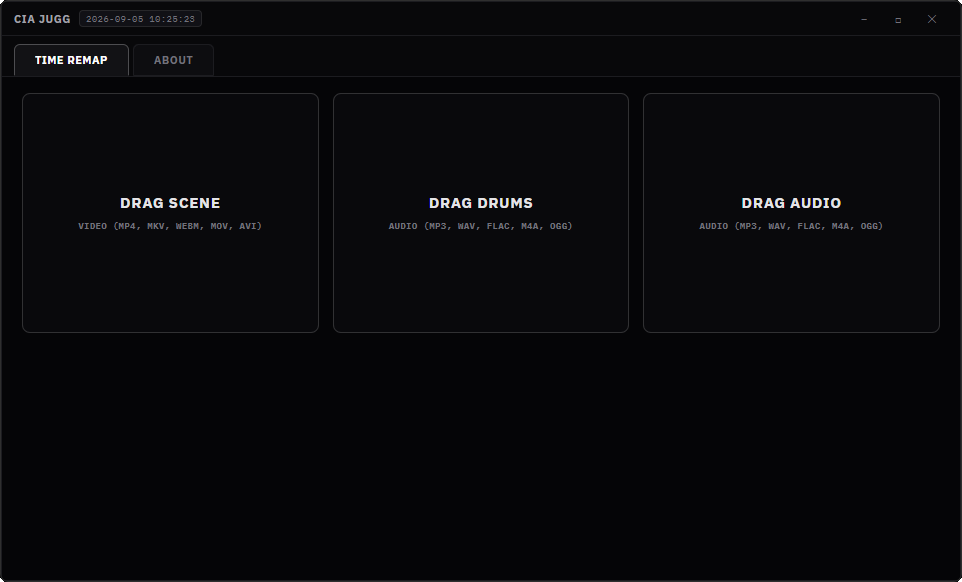
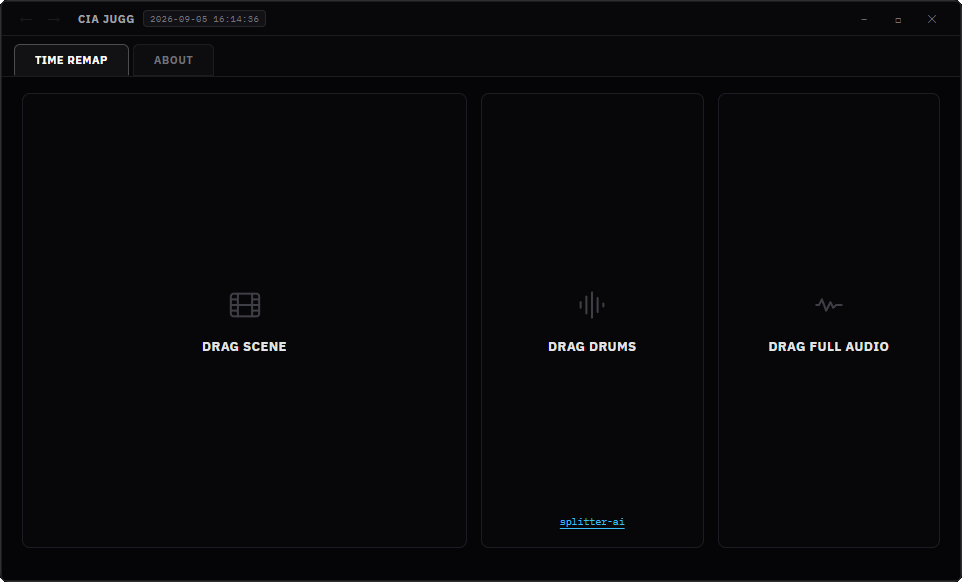
docs: update preview screenshot to cia jugg interface on main

diff --git a/README.md b/README.md
@@ -32,7 +32,7 @@ All processing runs locally on the host machine. The application bundles its own
 
 ## UX
 
-![cia app ux](docs/preview.png)
+![cia jugg ux](docs/preview.png)
 
 ---
 
@@ -70,7 +70,7 @@ All processing runs locally on the host machine. The application bundles its own
 
 Download the standalone installer from the [Releases](https://github.com/ssdme/cia-app-jugg/releases/latest) page:
 
-- **[cia.app_1.0.2_x64-setup.exe](https://github.com/ssdme/cia-app-jugg/releases/download/v1.0.2/cia.app_1.0.2_x64-setup.exe)** (129 MB)
+- **[cia.jugg_1.0.3_x64-setup.exe](https://github.com/ssdme/cia-app-jugg/releases/download/v1.0.3/cia.jugg_1.0.3_x64-setup.exe)** (130 MB)
 
 The installer is self-contained. It bundles all required binaries (`ffmpeg.exe`, `ffprobe.exe`, `beat_this.exe`, `onnxruntime.dll`, and ONNX model weights). No administrative privileges or system environment changes are required.
 
